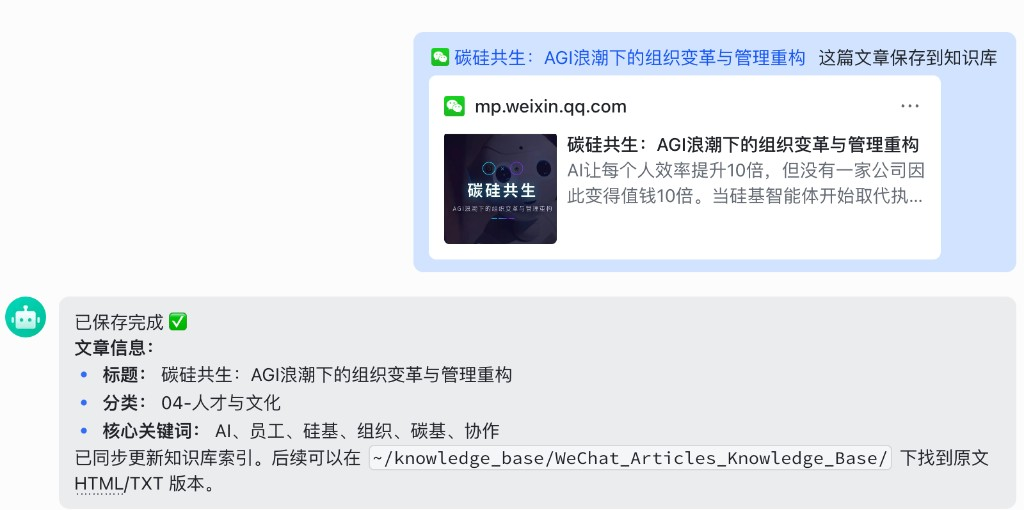
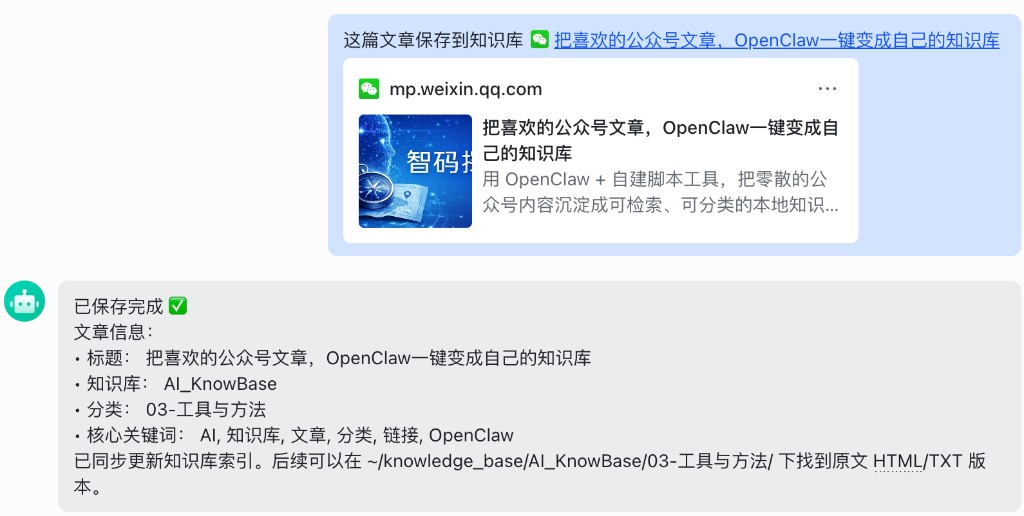
feat: 优化保存成功后的输出格式，更新截图
- kb_builder.py：保存成功后输出完整结构化信息（标题/知识库/分类/关键词/路径）
- docs/feishu-demo.png：替换为展示完整回复格式的新截图

Made-with: Cursor

Changed region(s): [[0.3125, 0.0294, 1.0, 0.5588], [0.0, 0.5294, 0.9688, 0.9706]]

diff --git a/kb_collector/kb_builder.py b/kb_collector/kb_builder.py
@@ -459,8 +459,15 @@ async def run_urls(
             changed_kbs.add(kb_key)
 
             prefixed = kb.raw_to_prefixed.get(category, category)
-            print(f"\n✓ 已存入 {kb.name} / {prefixed}")
-            print(f"  标题：{title[:60]}\n")
+            keywords = extract_keywords_for_index(plain_text)
+            save_path = f"~/knowledge_base/{kb.name}/{prefixed}/"
+            print(f"\n已保存完成 ✅")
+            print(f"文章信息：")
+            print(f"• 标题： {title[:60]}")
+            print(f"• 知识库： {kb.name}")
+            print(f"• 分类： {prefixed}")
+            print(f"• 核心关键词： {keywords}")
+            print(f"已同步更新知识库索引。后续可以在 {save_path} 下找到原文 HTML/TXT 版本。\n")
 
         except Exception:
             logger.exception("处理出错: %s", url)
